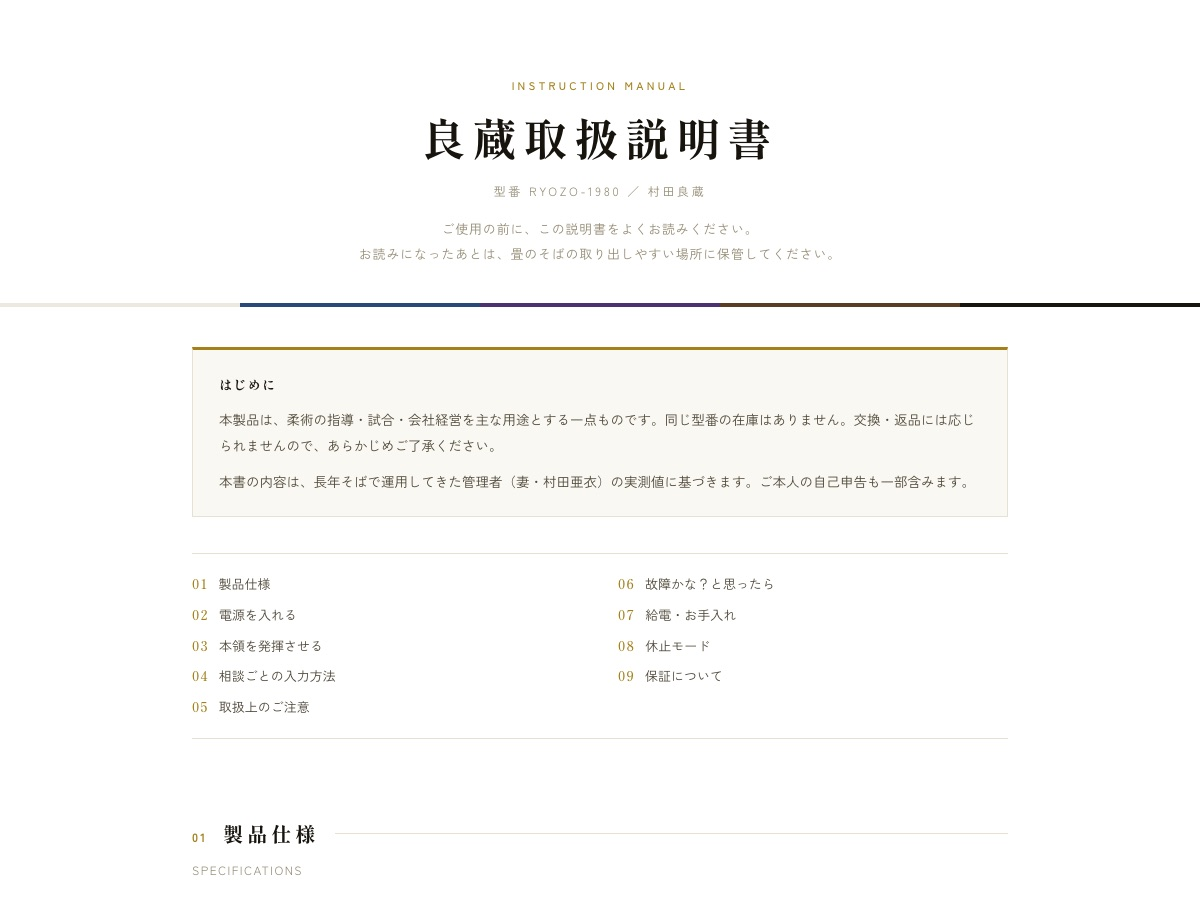
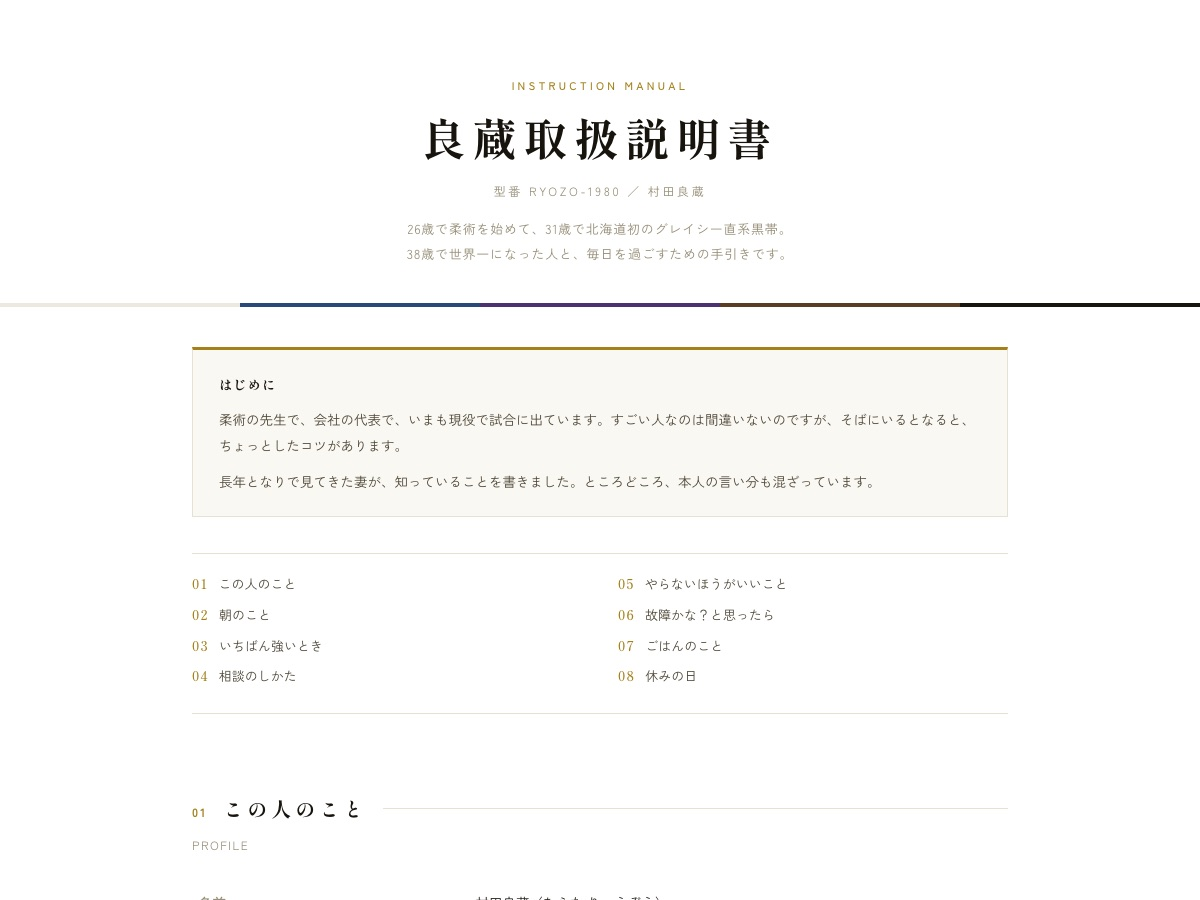
取扱説明書をゆるい語り口に書き直し、人となりを前に出す
- 家電用語の連発（本製品・入力・停止）をやめ、普通の言葉に
- 「同じ型番の在庫はありません」「交換・返品」「交換部品はありません」を削除
- 01を製品仕様からプロフィールに変更（黒帯・世界選手権・現在の成績）
- 章題をやわらかく（電源を入れる→朝のこと ほか）、保証の章を削除
- 一覧カード・新着・検索結果の紹介文とサムネイルも差し替え

diff --git a/toriatsukai/index.html b/toriatsukai/index.html
@@ -12,7 +12,7 @@
 </script>
 
 <title>良蔵取扱説明書</title>
-<meta name="description" content="村田良蔵の扱い方を、家電の取扱説明書の体裁でまとめました。起動にはコーヒーが必要で、筋の通らないことを言われると停止します。">
+<meta name="description" content="26歳で柔術を始めて、38歳で世界一。村田良蔵という人と毎日を過ごすための手引きを、取扱説明書の体裁でまとめました。">
 <link rel="stylesheet" href="https://fonts.googleapis.com/css2?family=Shippori+Mincho:wght@500;600;700&family=Zen+Kaku+Gothic+New:wght@400;500;700&display=swap">
 <style>
   :root {
@@ -106,7 +106,7 @@
   <p class="brand">INSTRUCTION MANUAL</p>
   <h1>良蔵取扱説明書</h1>
   <p class="model">型番 RYOZO-1980 ／ 村田良蔵</p>
-  <p class="lede">ご使用の前に、この説明書をよくお読みください。<br>お読みになったあとは、畳のそばの取り出しやすい場所に保管してください。</p>
+  <p class="lede">26歳で柔術を始めて、31歳で北海道初のグレイシー直系黒帯。<br>38歳で世界一になった人と、毎日を過ごすための手引きです。</p>
 </header>
 
 <div class="rank" aria-hidden="true"><span class="w"></span><span class="b"></span><span class="p"></span><span class="br"></span><span class="k"></span></div>
@@ -115,132 +115,125 @@
 
   <div class="notice">
     <p><b>はじめに</b></p>
-    <p>本製品は、柔術の指導・試合・会社経営を主な用途とする一点ものです。同じ型番の在庫はありません。交換・返品には応じられませんので、あらかじめご了承ください。</p>
-    <p>本書の内容は、長年そばで運用してきた管理者（妻・村田亜衣）の実測値に基づきます。ご本人の自己申告も一部含みます。</p>
+    <p>柔術の先生で、会社の代表で、いまも現役で試合に出ています。すごい人なのは間違いないのですが、そばにいるとなると、ちょっとしたコツがあります。</p>
+    <p>長年となりで見てきた妻が、知っていることを書きました。ところどころ、本人の言い分も混ざっています。</p>
   </div>
 
   <nav class="toc">
     <ol>
-      <li><a href="#s1"><span class="no">01</span>製品仕様</a></li>
-      <li><a href="#s2"><span class="no">02</span>電源を入れる</a></li>
-      <li><a href="#s3"><span class="no">03</span>本領を発揮させる</a></li>
-      <li><a href="#s4"><span class="no">04</span>相談ごとの入力方法</a></li>
-      <li><a href="#s5"><span class="no">05</span>取扱上のご注意</a></li>
+      <li><a href="#s1"><span class="no">01</span>この人のこと</a></li>
+      <li><a href="#s2"><span class="no">02</span>朝のこと</a></li>
+      <li><a href="#s3"><span class="no">03</span>いちばん強いとき</a></li>
+      <li><a href="#s4"><span class="no">04</span>相談のしかた</a></li>
+      <li><a href="#s5"><span class="no">05</span>やらないほうがいいこと</a></li>
       <li><a href="#s6"><span class="no">06</span>故障かな？と思ったら</a></li>
-      <li><a href="#s7"><span class="no">07</span>給電・お手入れ</a></li>
-      <li><a href="#s8"><span class="no">08</span>休止モード</a></li>
-      <li><a href="#s9"><span class="no">09</span>保証について</a></li>
+      <li><a href="#s7"><span class="no">07</span>ごはんのこと</a></li>
+      <li><a href="#s8"><span class="no">08</span>休みの日</a></li>
     </ol>
   </nav>
 
-  <h2 id="s1"><span class="no">01</span>製品仕様</h2>
-  <p class="sub">SPECIFICATIONS</p>
+  <h2 id="s1"><span class="no">01</span>この人のこと</h2>
+  <p class="sub">PROFILE</p>
   <table class="spec">
-    <tr><th>製品名</th><td>村田良蔵（むらた りょうぞう）</td></tr>
-    <tr><th>型番</th><td>RYOZO-1980</td></tr>
-    <tr><th>製造年月日</th><td>1980年4月24日</td></tr>
-    <tr><th>製造地</th><td>北海道網走市</td></tr>
-    <tr><th>外形寸法</th><td>177cm<small>質量 74kg（試合時は68kgまで絞り込まれます）</small></td></tr>
-    <tr><th>主な用途</th><td>ブラジリアン柔術の指導・試合・普及<small>株式会社BUTTI ON LINE 代表取締役／スポーツ柔術日本連盟（SJJJF）代表理事</small></td></tr>
-    <tr><th>稼働開始</th><td>2006年（26歳で柔術を開始）</td></tr>
-    <tr><th>認定</th><td>黒帯（2011年10月・クリスチアーノ カリオカより授与）<small>北海道初のグレイシー直系黒帯。SJJIF世界選手権では日本人初の優勝。</small></td></tr>
-    <tr><th>推奨動作環境</th><td>プレッシャーのかかった場所</td></tr>
-    <tr><th>必要な燃料</th><td>コーヒー、おいしいご飯</td></tr>
+    <tr><th>名前</th><td>村田良蔵（むらた りょうぞう）</td></tr>
+    <tr><th>生まれ</th><td>1980年4月24日・北海道網走市</td></tr>
+    <tr><th>体格</th><td>177cm・74kg<small>試合のときは68kgまで落とします。</small></td></tr>
+    <tr><th>柔術を始めたのは</th><td>2006年、26歳のとき</td></tr>
+    <tr><th>黒帯</th><td>2011年10月、クリスチアーノ カリオカより<small>北海道で初めての、グレイシー直系の黒帯です。</small></td></tr>
+    <tr><th>いちばんの実績</th><td>SJJIF世界選手権 マスター2黒帯フェザー級 優勝（2018・2019）<small>2018年の優勝は、日本人で初めてでした。</small></td></tr>
+    <tr><th>いまも</th><td>現役。2025年 IBJJF World Master 黒帯マスター3フェザー級 3位</td></tr>
+    <tr><th>仕事</th><td>株式会社BUTTI ON LINE 代表取締役<small>スポーツ柔術日本連盟（SJJJF）代表理事。道場は原宿・北参道・札幌の3つ。</small></td></tr>
   </table>
 
-  <h2 id="s2"><span class="no">02</span>電源を入れる</h2>
-  <p class="sub">POWER ON</p>
-  <p class="body">本製品の起動は、ゆっくりです。朝は時間に余裕をもってお待ちください。急かしても起動が早まることはありません。</p>
-  <p class="body">起動には<span class="em">コーヒーが必要</span>です。目が覚めたら、まずこれを入れてください。近年のモデルは<span class="em">牛乳を加えた仕様</span>を好んで使用します。</p>
+  <h2 id="s2"><span class="no">02</span>朝のこと</h2>
+  <p class="sub">MORNING</p>
+  <p class="body">朝は、ゆっくりです。急かしても早くなりません。</p>
+  <p class="body">起きたら、まずコーヒーを飲みます。最近は<span class="em">牛乳を入れるのがお気に入り</span>です。それを飲み終わるまでは、そっとしておくのがいちばんです。</p>
+  <p class="body">夜は、眠くなった時点でおしまい。予告はありません。</p>
+
+  <h2 id="s3"><span class="no">03</span>いちばん強いとき</h2>
+  <p class="sub">UNDER PRESSURE</p>
+  <p class="body">プレッシャーがかかっているときです。<span class="em">追い込まれるほど、強くなります。</span></p>
+  <p class="body">やさしい場所に置いておくと、力が余ったままになります。大きな舞台、大事な場面、逃げ場のない状況。そういうところにこそ、遠慮なく任せていい人です。</p>
   <div class="warn">
-    <p class="h">電源が切れるとき</p>
-    <p>眠くなったときです。予告はありません。停止したら、それ以上の操作はせず、翌朝までお待ちください。</p>
+    <p class="h">本人の言葉</p>
+    <p>「うまくいきそうだからやる」ではなく、「うまくいくまでやる」。</p>
   </div>
 
-  <h2 id="s3"><span class="no">03</span>本領を発揮させる</h2>
-  <p class="sub">MAXIMUM OUTPUT</p>
-  <p class="body">本製品が最大出力に達するのは、<span class="em">プレッシャーがかかっているとき</span>です。追い込まれるほど、出力は上がります。</p>
-  <p class="body">やさしく扱えば長持ちする、という考え方は本製品には当てはまりません。ぬるい環境に置いたままにすると、性能を出しきらないままになります。大きな舞台、大事な場面、逃げ場のない状況——そういう場所にこそ、遠慮なく置いてください。</p>
-
-  <h2 id="s4"><span class="no">04</span>相談ごとの入力方法</h2>
+  <h2 id="s4"><span class="no">04</span>相談のしかた</h2>
   <p class="sub">HOW TO ASK</p>
-  <p class="body">本製品は<span class="em">人肌で動きます</span>。「誰でもいい用件」として入力された相談には、反応が鈍くなります。次の形式でお渡しください。</p>
+  <p class="body">人で動く人です。「誰に頼んでもいい用件」として持っていくと、反応がうすくなります。</p>
   <ol class="steps">
-    <li><b>「あなたにしか解決できない」を添える</b>「良蔵先生にしか解決できないと思うんですけど、これどうしたらいいですか」。この一言があるかないかで、動きがまるで違います。</li>
-    <li><b>日常的な相談は、答えを持ってから</b>丸投げは受け付けません。「A・B・C、どれがいいですか」と、選択肢の形まで整えてから入力してください。</li>
-    <li><b>できなかったときは、必ず代案とセットで</b>止まった報告だけを返さないでください。次の手まで持っていくのが、正しい使い方です。</li>
+    <li><b>「あなたにしか解決できない」と言って持っていく</b>「良蔵先生にしか解決できないと思うんですけど、これどうしたらいいですか」。この一言があるかないかで、動きがまるで違います。</li>
+    <li><b>日常のことは、自分の答えを持ってから</b>丸ごと投げないこと。「A・B・C、どれがいいですか」くらいまで考えてから持っていきます。</li>
+    <li><b>できなかったときは、代案とセットで</b>止まった報告だけで終わらせないこと。次の手まで持っていくと、話が早いです。</li>
   </ol>
   <div class="ng">
     <div><p class="x">予約、取れませんでした。</p><p class="o">取れなかったので、こちらはどうですか？</p></div>
     <div><p class="x">セロハンテープ、ありませんでした。</p><p class="o">セロハンテープは無かったのでガムテープならあります。隣の店まで行ってきますか？</p></div>
   </div>
   <div class="warn">
-    <p class="h">ご注意・まれに「F」が返ります</p>
-    <p>A・B・Cを提示しても、そこにない答えが返ってくることがあります。故障ではありません。選択肢の外から解決してしまうのが、本製品の性能です。</p>
+    <p class="h">ときどき、A・B・Cのどれでもない答えが返ってきます</p>
+    <p>こちらが並べた選択肢の外から、ぜんぜん違う解き方を出してくることがあります。だいたい、それが正解です。</p>
   </div>
 
-  <h2 id="s5"><span class="no">05</span>取扱上のご注意</h2>
+  <h2 id="s5"><span class="no">05</span>やらないほうがいいこと</h2>
   <p class="sub">CAUTION</p>
   <div class="warn">
-    <p class="h">筋の通らないことを入力しないでください</p>
-    <p>本製品が確実に停止する、唯一の操作です。損得だけの話、辻褄の合わない話、思考停止したまま渡される話。これらを入力すると動作を停止します。</p>
+    <p class="h">筋の通らないこと</p>
+    <p>これだけは通じません。損得だけの話、辻褄の合わない話、考えないまま渡される話。ここで止まります。</p>
   </div>
   <div class="warn">
-    <p class="h">一度決めた設定を、外から書き換えないでください</p>
-    <p>自分で決めたことを人に変えられるのを嫌います。変更が必要なときは、理由から先にお伝えください。筋さえ通っていれば、本製品は自分で書き換えます。</p>
+    <p class="h">一度決めたことを、外から変えようとすること</p>
+    <p>自分で決めたことを人に変えられるのが、あまり好きではありません。変えてほしいときは、理由から話してください。筋が通っていれば、自分で変えます。</p>
   </div>
 
   <h2 id="s6"><span class="no">06</span>故障かな？と思ったら</h2>
   <p class="sub">TROUBLESHOOTING</p>
   <table class="tr">
-    <thead><tr><th>症状</th><th>原因と対処</th></tr></thead>
+    <thead><tr><th>こう見えるとき</th><th>だいたいの理由</th></tr></thead>
     <tbody>
       <tr>
         <td>怒っているように見える</td>
-        <td>故障ではありません。<span class="em">わざとやっています。</span>伝えるべき相手に、伝わる形で出しているだけなので、そのまま受け取ってください。</td>
+        <td><span class="em">わざとやっています。</span>伝えるべき相手に、伝わる形で出しているだけなので、そのまま受け取って大丈夫です。</td>
       </tr>
       <tr>
-        <td>機嫌が悪いように見える</td>
-        <td>本製品は機嫌の振れ幅がほとんどありません。ご本人いわく「機嫌はなくてもいい」。周囲が心配するほどのことは、たいてい起きていません。</td>
+        <td>機嫌が悪そうに見える</td>
+        <td>機嫌の波が、ほとんどない人です。本人いわく「機嫌はなくてもいい」。まわりが心配するほどのことは、たいてい起きていません。</td>
       </tr>
       <tr>
         <td>急に無言になる／返事が遅い</td>
-        <td>ほとんど発生しない症状です。もし続く場合は、眠いか、お腹が空いています。02と07をご確認ください。</td>
+        <td>めったにありません。あるとしたら、眠いか、お腹が空いています。02と07をどうぞ。</td>
       </tr>
       <tr>
         <td>相談したのに動いてくれない</td>
-        <td>入力形式をご確認ください（04）。丸投げ、代案なし、誰でもいい用件のいずれかに当てはまっているはずです。</td>
+        <td>頼み方かもしれません（04）。丸投げ、代案なし、誰でもいい用件。どれかに当てはまっていることが多いです。</td>
       </tr>
     </tbody>
   </table>
 
-  <h2 id="s7"><span class="no">07</span>給電・お手入れ</h2>
-  <p class="sub">MAINTENANCE</p>
-  <p class="body">おいしいご飯を入れてください。ただし<span class="em">クオリティによります</span>。量では回復しません。</p>
-  <p class="body">最も効率のよい燃料は、<span class="em">妻の手料理</span>であることが長年の運用で確認されています。</p>
+  <h2 id="s7"><span class="no">07</span>ごはんのこと</h2>
+  <p class="sub">MEALS</p>
+  <p class="body">おいしいご飯です。ただし<span class="em">クオリティによります</span>。量では元気になりません。</p>
+  <p class="body">いちばん効くのは、家のごはんです。</p>
 
-  <h2 id="s8"><span class="no">08</span>休止モード</h2>
+  <h2 id="s8"><span class="no">08</span>休みの日</h2>
   <p class="sub">DAY OFF</p>
-  <p class="body">休みの日は、妻と洗車に行き、そのままランチを食べて帰ってきます。特別なメンテナンスは要りません。車がきれいになって、ごはんがおいしければ、それで回復します。</p>
+  <p class="body">洗車に行って、そのままランチを食べて帰ってきます。特別なことは要りません。車がきれいになって、ごはんがおいしければ、それで足ります。</p>
 
-  <h2 id="s9"><span class="no">09</span>保証について</h2>
-  <p class="sub">WARRANTY</p>
-  <p class="body">本製品に交換部品はありません。丁寧に、長くお使いください。</p>
-  <p class="body">なお、本製品の考え方そのものについては、別冊の<a href="/goroku/" style="color:var(--gold);text-decoration:none;border-bottom:1px solid var(--line)">良蔵語録</a>に収録しています。あわせてご覧ください。</p>
-
-  <div class="warn" style="margin-top:34px">
+  <div class="warn" style="margin-top:56px">
     <p class="h">あなたの取扱説明書もつくれます</p>
     <p>10の質問に答えると、この体裁のまま、あなたの1枚ができます。画像で保存できます。　<a href="/toriatsukai/tsukuru/" style="color:var(--gold);text-decoration:none;border-bottom:1px solid var(--line)">つくってみる</a></p>
   </div>
 
   <div class="closing">
     <p class="t">筋さえ通っていれば、だいたい動きます。</p>
-    <p class="by">発行：村田亜衣</p>
+    <p class="by">聞き書き：村田亜衣</p>
   </div>
 
   <footer>
     <a href="/">jiujitsu.co.jp</a> ／ <a href="/goroku/">良蔵語録</a> ／ <a href="/toriatsukai/tsukuru/">あなたの取扱説明書をつくる</a><br>
-    本書の記載内容は予告なく変更されることがあります。
+    書いた内容は、気づいたときに増えたり変わったりします。
   </footer>
 
 </div>

diff --git a/index.html b/index.html
@@ -227,7 +227,7 @@
         <span>
           <p class="eyebrow">08 ・ TORIATSUKAI</p>
           <h2>良蔵取扱説明書<span class="arrow">→</span></h2>
-          <p>良蔵先生の扱い方を、家電の取扱説明書の体裁でまとめました。起動にはコーヒーが必要で、筋の通らないことを言われると停止します。同じ体裁で、自分の取扱説明書もつくれます。</p>
+          <p>26歳で柔術を始めて、38歳で世界一。そんな人と毎日を過ごすための手引きを、取扱説明書の体裁でまとめました。朝はコーヒーを飲み終わるまでそっとしておくのがいちばんです。同じ体裁で、自分の取扱説明書もつくれます。</p>
         </span>
       </a>
 
